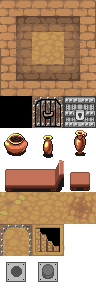
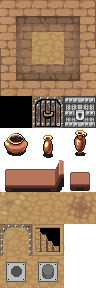
hum..

Changed region(s): [[0.0, 0.875, 0.6875, 1.0]]

diff --git a/src/game/tilemap/tilemap.ts b/src/game/tilemap/tilemap.ts
@@ -153,7 +153,7 @@ export class TileMap {
         }
     }
     setButtons() {
-        const ids = _.groupBy(this.graph.rooms, 'roomId');
+        const ids = _.groupBy(this.graph.rooms, 'groupId');
         for (const rooms of Object.values(ids)) {
             const r = pickInArray(rooms);
             const pos = randomIn(r.rect);

diff --git a/src/game/tilemap/tile-type-metadata.ts b/src/game/tilemap/tile-type-metadata.ts
@@ -27,6 +27,8 @@ export function tilePropertiesForTerrain(t: Terrain) {
             t.DoorOpened,
             t.DoorLocked,
             t.Stair,
+            t.ButtonPushed,
+            t.Button
         ].indexOf(type) > -1;
     }
 }

diff --git a/src/map/terrain.greece.ts b/src/map/terrain.greece.ts
@@ -6,7 +6,8 @@ export const terrainGreece: Terrain = {
     DoorOpened: 21,
     DoorLocked: 11,
     Stair: 22,
-    Button: 23,
+    Button: 25,
+    ButtonPushed: 24,
     CornerSE:8,
     CornerNW:0,
     CornerNE:2,

diff --git a/src/map/terrain.ts b/src/map/terrain.ts
@@ -14,5 +14,6 @@ export interface Terrain {
     Deco: number,
     Stair: number;
     Button: number;
+    ButtonPushed: number;
     [k: string]: any;
 }
